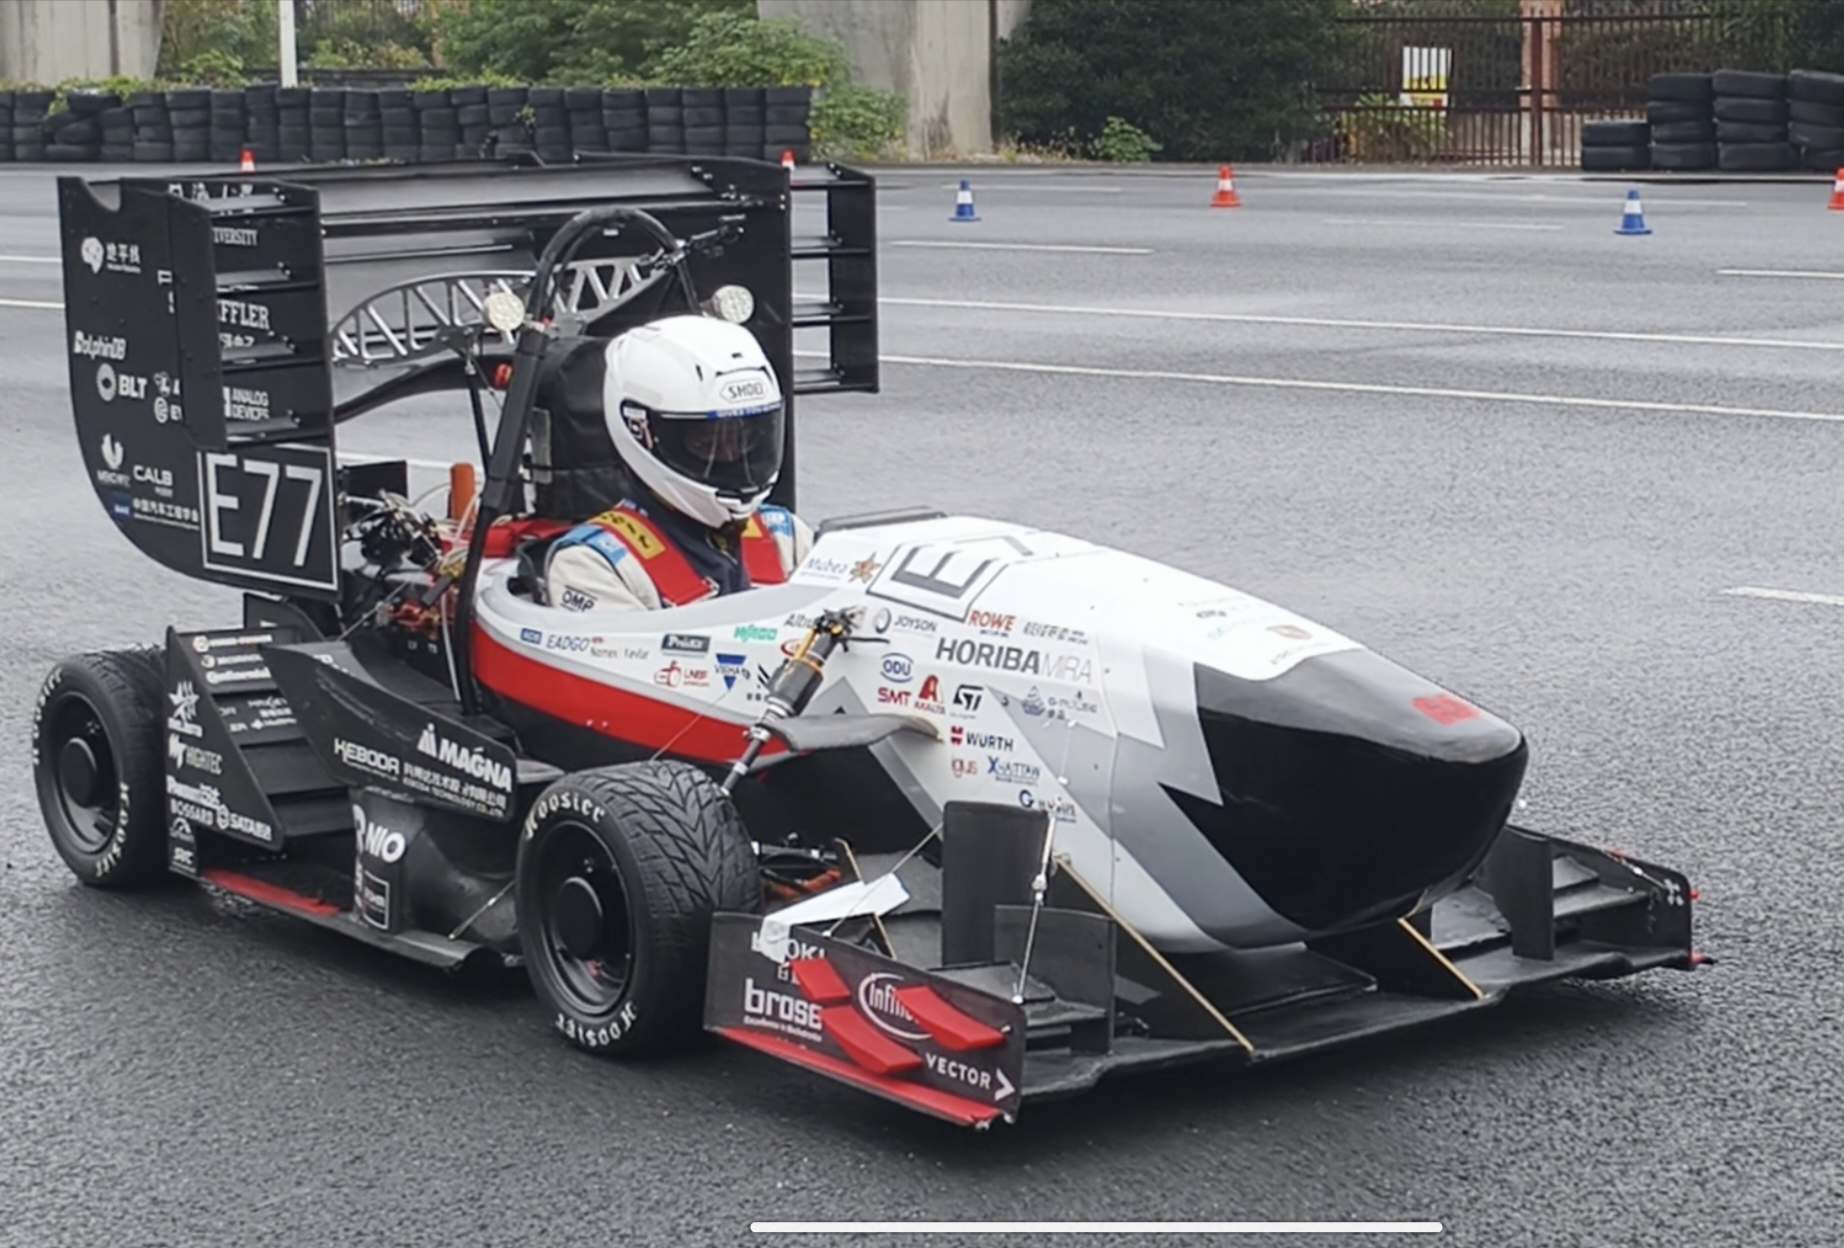
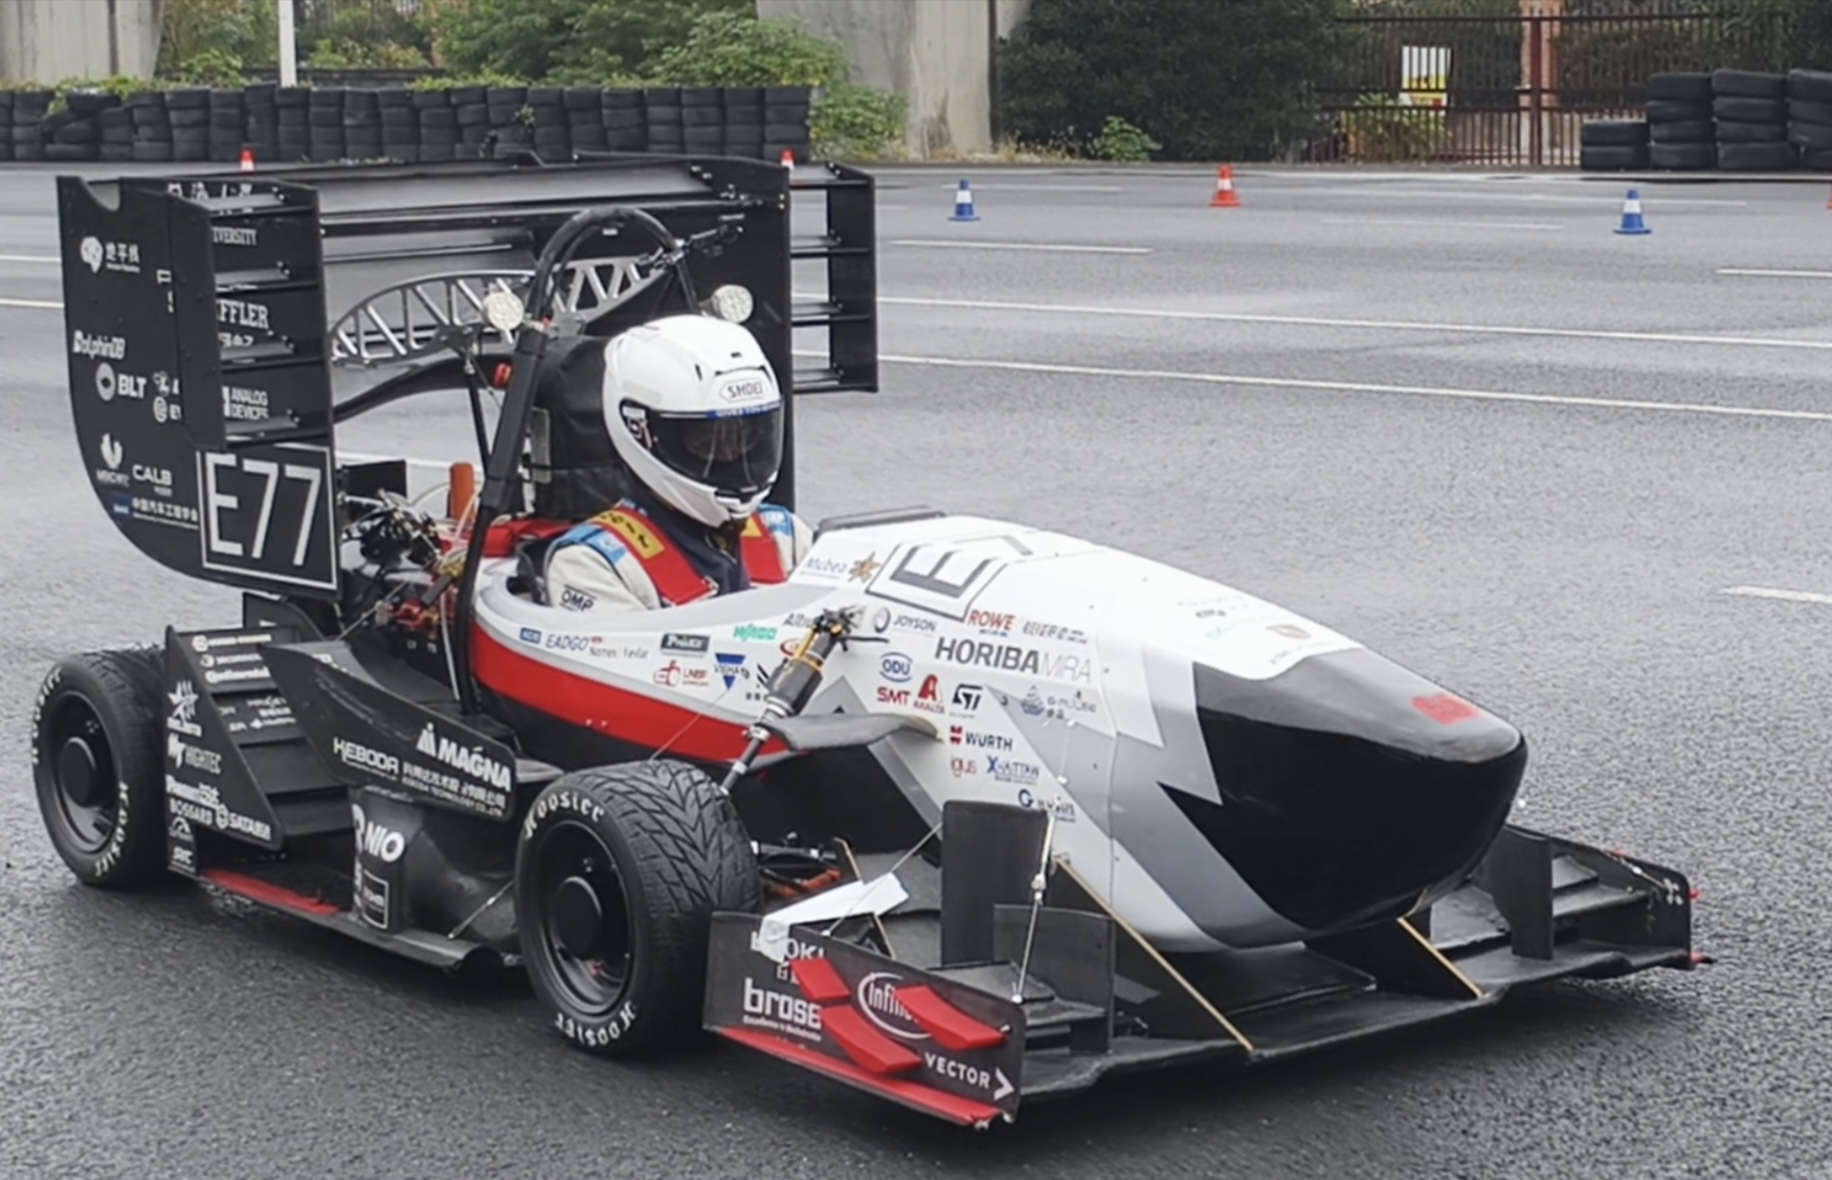
update index

diff --git a/index.html b/index.html
@@ -41,7 +41,7 @@
             src="assets/img/e77-portrait.jpg"
             alt="王宇鹏坐在 E77 电动方程式赛车上的纪念照片"
           />
-          <figcaption>E77 电动方程式赛车，2025 全国亚军</figcaption>
+          <figcaption>我喜欢赛车，更喜欢制造赛车</figcaption>
         </figure>
 
         <section class="profile-block">
